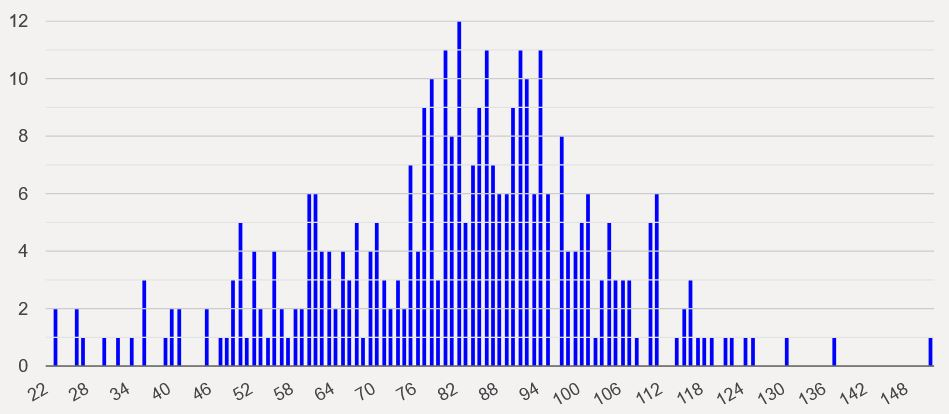
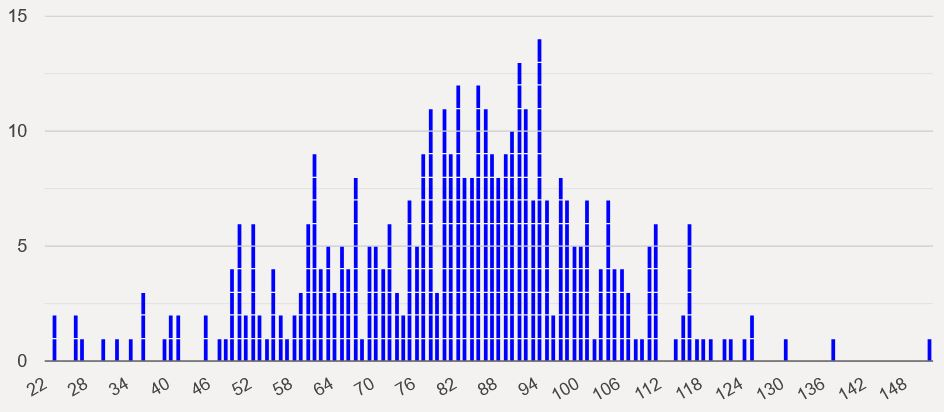
Update histogram.

diff --git a/PersonalTravels.html b/PersonalTravels.html
@@ -265,7 +265,7 @@
     </b>
 
     <hr size="1" color="#C0C0C0" />
-    <p>Histogram of daily distances. Average is 82 km per day.</p>
+    <p>Histogram of daily distances. Average is 82 km per day (n = 407).</p>
     <b>
     <a href="https://gillesarcas.github.io/histogramme.jpg" imageanchor="1" style="margin-bottom: 1em; margin-right: 1em;">
     <img border="0" src="https://gillesarcas.github.io/histogramme.jpg" width="640" />
